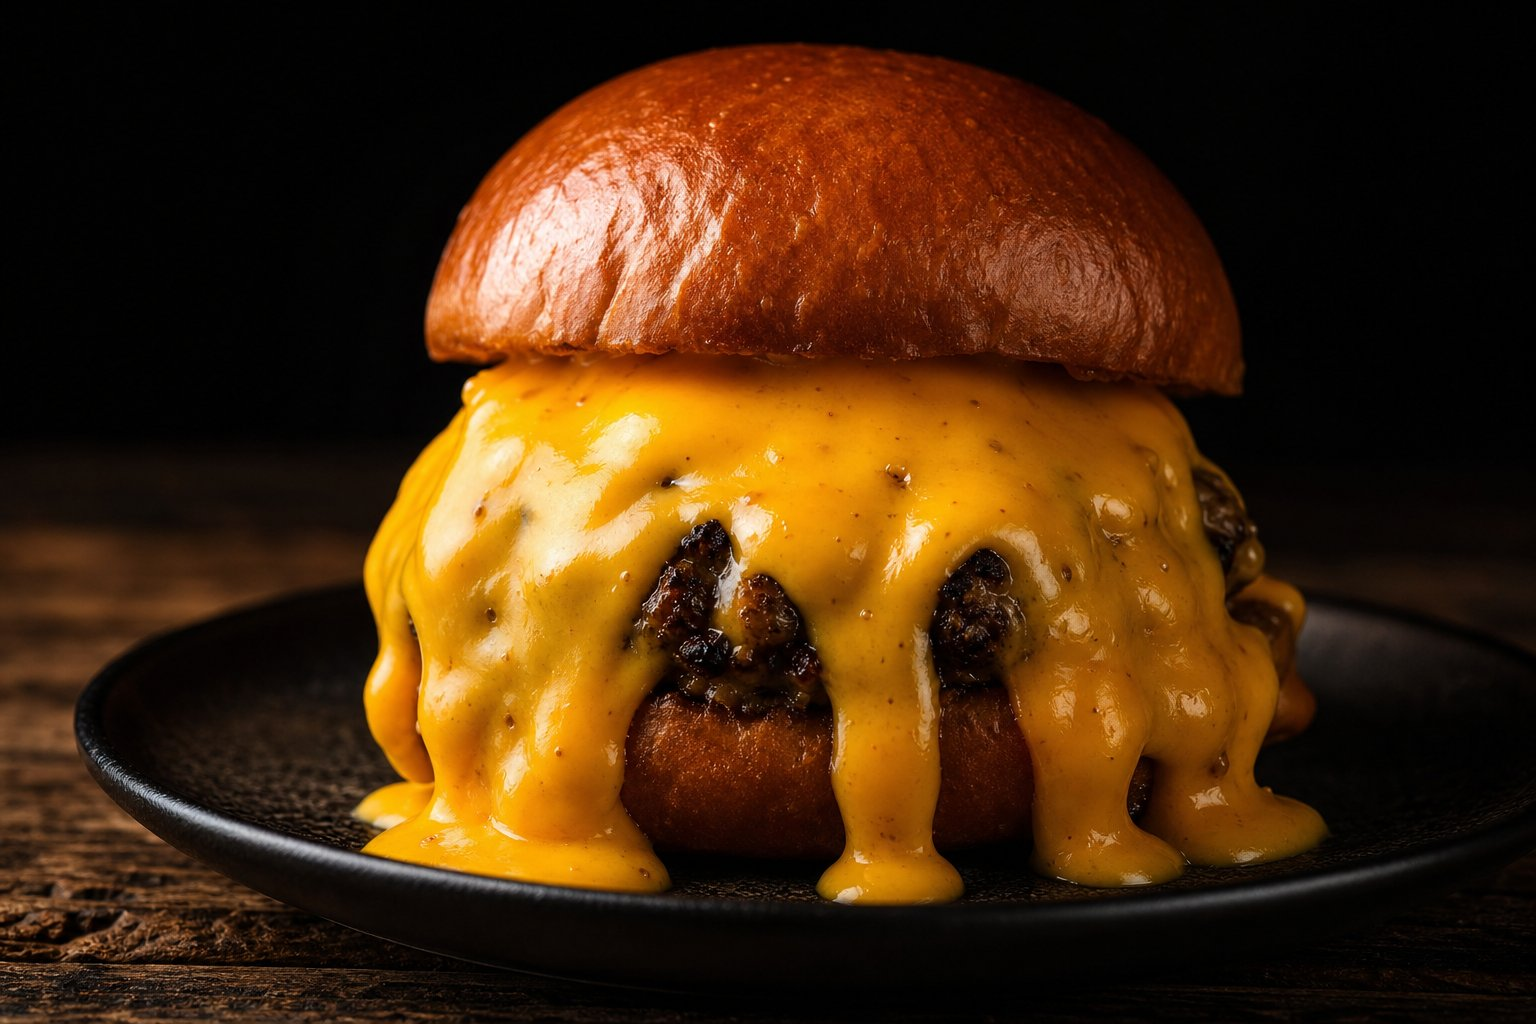
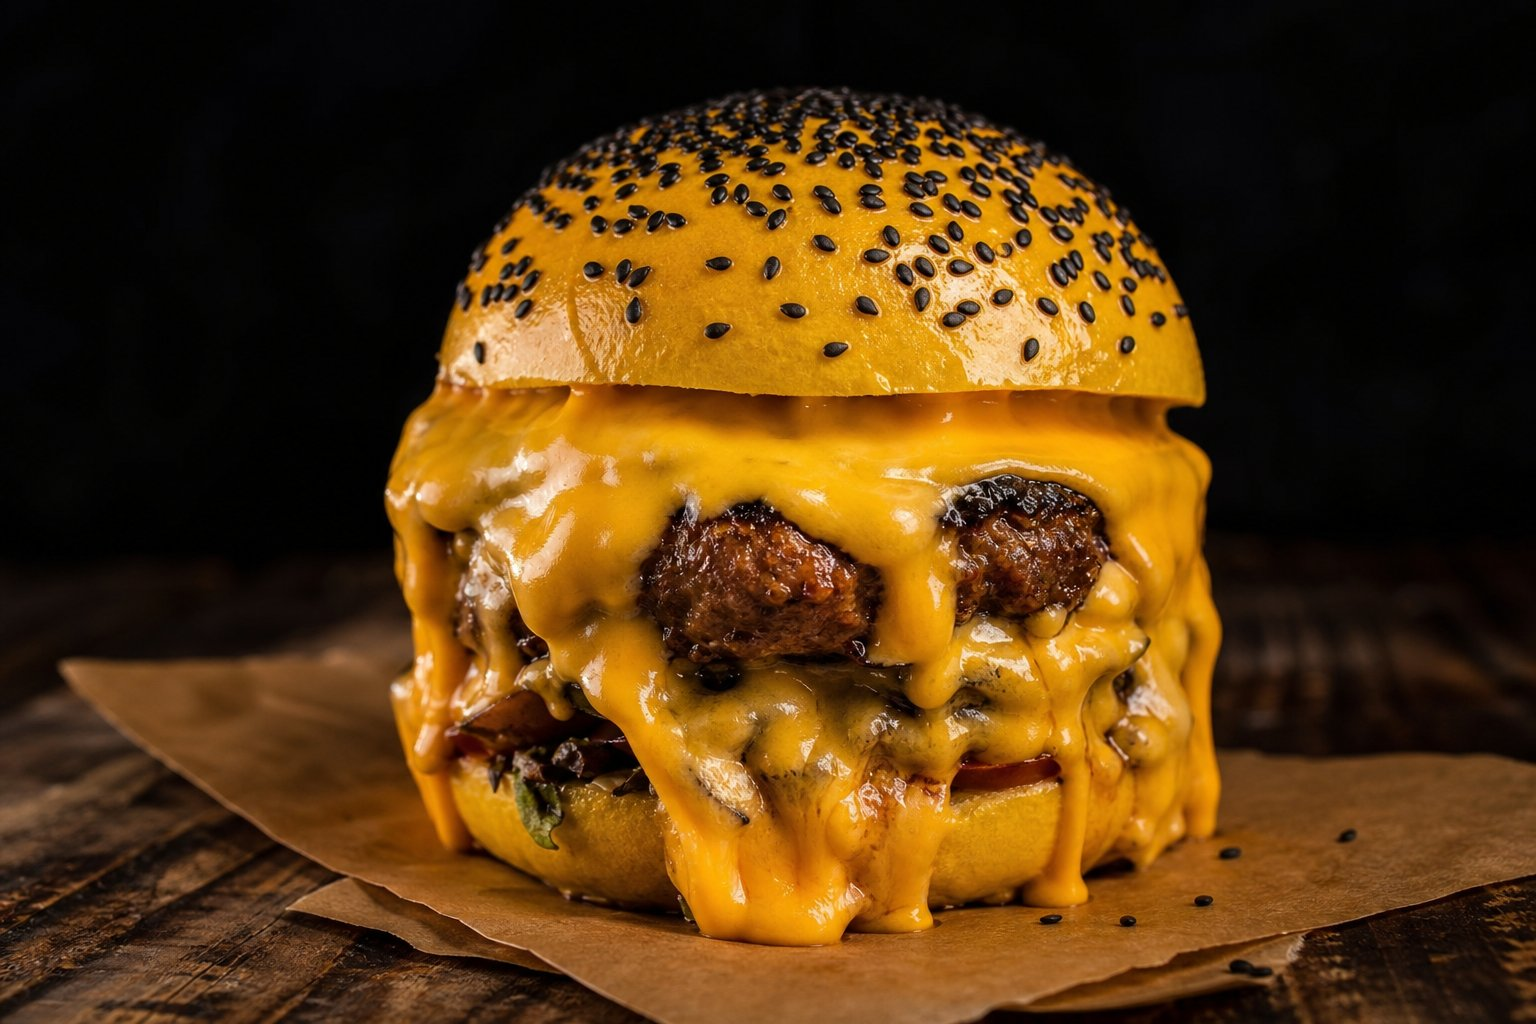
feat: fotos gastronômicas com pão brioche artesanal amarelo e gergelim preto da casa

diff --git a/server/data.js b/server/data.js
@@ -86,7 +86,7 @@ export const BUILDER = [
   {
     id: "pao", label: "Escolha o pão",
     options: [
-      { id: "brioche", name: "Brioche", price: 0 },
+      { id: "brioche", name: "Pão Brioche Artesanal Amarelo (c/ gergelim preto)", price: 0 },
       { id: "australiano", name: "Australiano", price: 3 },
       { id: "batata", name: "Pão de batata", price: 2 },
       { id: "integral", name: "Integral", price: 2 },
@@ -124,36 +124,36 @@ export const BUILDER = [
 export const PRODUCTS = [
   {
     id: "p1", name: "Tô no Sarro Salada Burger", cat: "burgers", emoji: "🍔",
-    desc: "100g de carne no pão brioche com salada fresca e o molho especial da casa.",
-    ingredients: ["Pão brioche", "Carne 100g", "Alface", "Tomate", "Cebola roxa", "Molho especial"],
+    desc: "100g de carne no pão brioche artesanal amarelo com gergelim preto, salada fresca e molho especial.",
+    ingredients: ["Pão brioche amarelo c/ gergelim preto", "Carne 100g", "Alface", "Tomate", "Cebola roxa", "Molho especial"],
     price: 16, promo: null, time: 18, badges: ["maisvendido"], available: 1,
     groups: ["ponto", "queijo", "molho", "adicionais", "remover"], stock: 40, builder: 0,
   },
   {
     id: "p2", name: "Sarro Massa Bacon Burger", cat: "burgers", emoji: "🥓",
-    desc: "100g de carne, bacon crocante e creme cheddar no pão brioche.",
-    ingredients: ["Pão brioche", "Carne 100g", "Bacon crocante", "Creme cheddar", "Molho especial"],
+    desc: "100g de carne, bacon crocante e creme cheddar no pão brioche artesanal amarelo.",
+    ingredients: ["Pão brioche amarelo c/ gergelim preto", "Carne 100g", "Bacon crocante", "Creme cheddar", "Molho especial"],
     price: 20, promo: null, time: 20, badges: ["maisvendido"], available: 1,
     groups: ["ponto", "molho", "adicionais", "remover"], stock: 28, builder: 0,
   },
   {
     id: "p3", name: "Sarro Peso Calabresa Burger", cat: "burgers", emoji: "🍔",
-    desc: "100g de carne com calabresa e creme cheddar no pão brioche.",
-    ingredients: ["Pão brioche", "Carne 100g", "Calabresa", "Creme cheddar", "Molho especial"],
+    desc: "100g de carne com calabresa fatiada e creme cheddar no pão brioche artesanal amarelo.",
+    ingredients: ["Pão brioche amarelo c/ gergelim preto", "Carne 100g", "Calabresa fatiada", "Creme cheddar", "Molho especial"],
     price: 25, promo: null, time: 24, badges: [], available: 1,
     groups: ["ponto", "queijo", "molho", "adicionais", "remover"], stock: 15, builder: 0,
   },
   {
     id: "p4", name: "Sarro Desmantelo Cheddar Burger", cat: "burgers", emoji: "🍔",
-    desc: "100g de carne com desmantelo de creme cheddar no pão brioche.",
-    ingredients: ["Pão brioche", "Carne 100g", "Desmantelo de creme cheddar", "Molho especial"],
+    desc: "100g de carne com desmantelo de creme cheddar cascata no pão brioche amarelo.",
+    ingredients: ["Pão brioche amarelo c/ gergelim preto", "Carne 100g", "Desmantelo de creme cheddar", "Molho especial"],
     price: 20, promo: null, time: 15, badges: [], available: 1,
     groups: ["queijo", "molho", "adicionais", "remover"], stock: 33, builder: 0,
   },
   {
     id: "p5", name: "Sarro Arretado Burger", cat: "burgers", emoji: "🍔",
-    desc: "100g de carne com queijo coalho grelhado no pão brioche. Arretado de bom!",
-    ingredients: ["Pão brioche", "Carne 100g", "Queijo coalho grelhado", "Molho especial"],
+    desc: "100g de carne com fatia grossa de queijo coalho grelhado no pão brioche amarelo.",
+    ingredients: ["Pão brioche amarelo c/ gergelim preto", "Carne 100g", "Queijo coalho grelhado", "Molho especial"],
     price: 23.9, promo: null, time: 20, badges: ["novidade"], available: 1,
     groups: ["queijo", "molho", "adicionais", "remover"], stock: 22, builder: 0,
   },
@@ -250,7 +250,7 @@ export const CUSTOMERS = [
 
 export const INVENTORY = [
   { id: "i1", name: "Blend bovino 180g", unit: "un", qty: 86, min: 40 },
-  { id: "i2", name: "Pão brioche", unit: "un", qty: 62, min: 50 },
+  { id: "i2", name: "Pão brioche amarelo c/ gergelim preto", unit: "un", qty: 62, min: 50 },
   { id: "i3", name: "Queijo cheddar", unit: "fatia", qty: 210, min: 80 },
   { id: "i4", name: "Bacon", unit: "kg", qty: 3.4, min: 4 },
   { id: "i5", name: "Alface", unit: "un", qty: 12, min: 6 },

diff --git a/server/db.js b/server/db.js
@@ -214,10 +214,16 @@ addColumnIfMissing("promos", "ends_at", "ends_at INTEGER");
 // Só atualiza as linhas ainda iguais à semente fictícia — qualquer edição
 // feita pelo admin no Cardápio é preservada. Também carimba updated_at
 // para o app buscar as fotos novas (cache-busting do ?v=).
+// Migração do pão e fotos novas (atualiza ingredientes e força novo timestamp updated_at)
+try {
+  db.prepare(`UPDATE options SET name = 'Pão Brioche Artesanal Amarelo (c/ gergelim preto)' WHERE id = 'brioche' AND group_id = 'pao'`).run();
+  db.prepare(`UPDATE products SET updated_at = ? WHERE id IN ('p1','p2','p3','p4','p5','p6','p7')`).run(Date.now());
+} catch {}
+
 const MENU_REAL = [
   { id: "p1", oldName: "Sarro Burger", name: "Tô no Sarro Salada Burger", cat: "burgers", emoji: "🍔",
-    desc: "100g de carne no pão brioche com salada fresca e o molho especial da casa.",
-    ingredients: ["Pão brioche", "Carne 100g", "Alface", "Tomate", "Cebola roxa", "Molho especial"],
+    desc: "100g de carne no pão brioche artesanal amarelo com gergelim preto, salada fresca e molho especial.",
+    ingredients: ["Pão brioche amarelo c/ gergelim preto", "Carne 100g", "Alface", "Tomate", "Cebola roxa", "Molho especial"],
     price: 16, promo: null, badges: ["maisvendido"] },
   { id: "p2", oldName: "Bacon Sarro", name: "Sarro Massa Bacon Burger", cat: "burgers", emoji: "🥓",
     desc: "100g de carne, bacon crocante e creme cheddar no pão brioche.",
